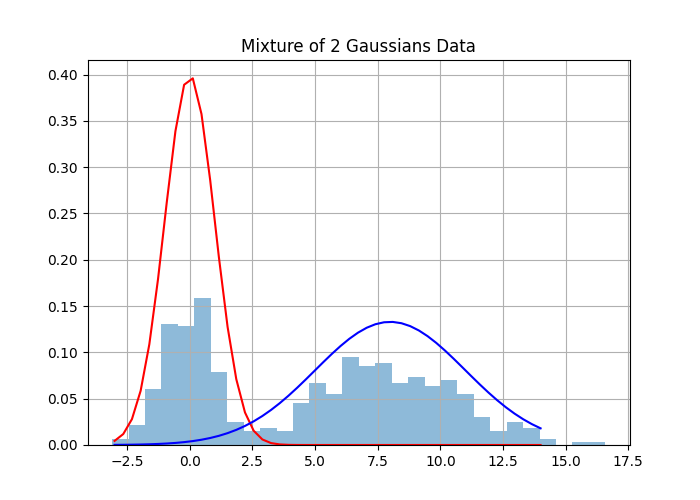
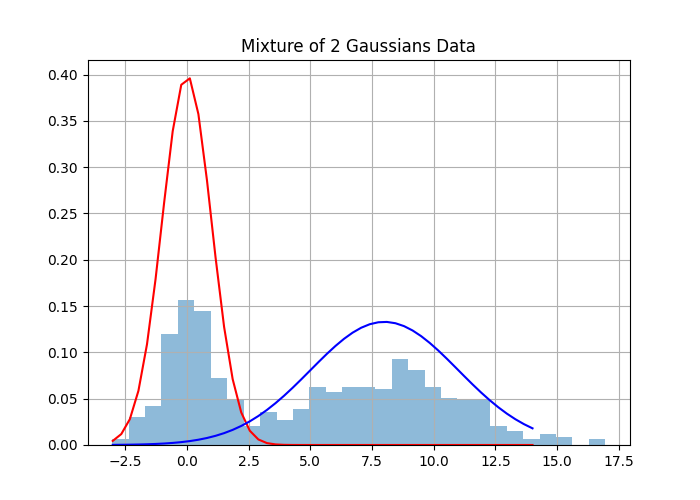
test

diff --git a/docs/post/2021-04-04-gibbs-sampling-for-mixutre-of-normals/index.en.html b/docs/post/2021-04-04-gibbs-sampling-for-mixutre-of-normals/index.en.html
@@ -132,19 +132,18 @@ from <span class="math inline">\(\phi_{\theta_2}(x)\)</span> where <span class="
 <span id="cb1-28"><a href="#cb1-28" aria-hidden="true" tabindex="-1"></a></span>
 <span id="cb1-29"><a href="#cb1-29" aria-hidden="true" tabindex="-1"></a><span class="co"># Create Plot of Data </span></span>
 <span id="cb1-30"><a href="#cb1-30" aria-hidden="true" tabindex="-1"></a>plt.hist(y, <span class="dv">30</span>, density<span class="op">=</span><span class="va">True</span>, alpha<span class="op">=</span><span class="fl">0.5</span>)</span></code></pre></div>
-<pre><code>## (array([0.03085908, 0.05863225, 0.08331951, 0.1573813 , 0.16663902,
-##        0.1172645 , 0.04937453, 0.02160136, 0.00925772, 0.01234363,
-##        0.03703089, 0.08331951, 0.0771477 , 0.0401168 , 0.06788997,
-##        0.06480407, 0.04937453, 0.08949133, 0.06480407, 0.06480407,
-##        0.0401168 , 0.05554634, 0.03394499, 0.01542954, 0.03085908,
-##        0.00308591, 0.01234363, 0.00308591, 0.        , 0.00308591]), array([-2.58806699e+00, -1.93995950e+00, -1.29185201e+00, -6.43744519e-01,
-##         4.36297185e-03,  6.52470463e-01,  1.30057795e+00,  1.94868544e+00,
-##         2.59679294e+00,  3.24490043e+00,  3.89300792e+00,  4.54111541e+00,
-##         5.18922290e+00,  5.83733039e+00,  6.48543788e+00,  7.13354537e+00,
-##         7.78165286e+00,  8.42976035e+00,  9.07786784e+00,  9.72597534e+00,
-##         1.03740828e+01,  1.10221903e+01,  1.16702978e+01,  1.23184053e+01,
-##         1.29665128e+01,  1.36146203e+01,  1.42627278e+01,  1.49108353e+01,
-##         1.55589428e+01,  1.62070502e+01,  1.68551577e+01]), &lt;BarContainer object of 30 artists&gt;)</code></pre>
+<pre><code>## (array([0.00612969, 0.01532421, 0.03677811, 0.09194528, 0.15937182,
+##        0.17163119, 0.09501012, 0.04903748, 0.02451874, 0.02758358,
+##        0.03064843, 0.03677811, 0.03064843, 0.06129685, 0.04903748,
+##        0.07049138, 0.07968591, 0.09194528, 0.0858156 , 0.04597264,
+##        0.07355622, 0.05823201, 0.04903748, 0.0429078 , 0.00919453,
+##        0.0214539 , 0.00612969, 0.00612969, 0.        , 0.00612969]), array([-3.32204907, -2.66948703, -2.01692499, -1.36436295, -0.71180091,
+##        -0.05923887,  0.59332317,  1.24588521,  1.89844725,  2.5510093 ,
+##         3.20357134,  3.85613338,  4.50869542,  5.16125746,  5.8138195 ,
+##         6.46638154,  7.11894358,  7.77150562,  8.42406766,  9.07662971,
+##         9.72919175, 10.38175379, 11.03431583, 11.68687787, 12.33943991,
+##        12.99200195, 13.64456399, 14.29712603, 14.94968807, 15.60225012,
+##        16.25481216]), &lt;BarContainer object of 30 artists&gt;)</code></pre>
 <div class="sourceCode" id="cb3"><pre class="sourceCode python"><code class="sourceCode python"><span id="cb3-1"><a href="#cb3-1" aria-hidden="true" tabindex="-1"></a>plt.plot(x, norm(mu[<span class="dv">0</span>], sigmas[<span class="dv">0</span>]).pdf(x), color<span class="op">=</span><span class="st">&quot;red&quot;</span>)</span>
 <span id="cb3-2"><a href="#cb3-2" aria-hidden="true" tabindex="-1"></a>plt.plot(x, norm(mu[<span class="dv">1</span>], sigmas[<span class="dv">1</span>]).pdf(x), color<span class="op">=</span><span class="st">&quot;blue&quot;</span>)</span>
 <span id="cb3-3"><a href="#cb3-3" aria-hidden="true" tabindex="-1"></a>plt.title(<span class="st">&quot;Mixture of 2 Gaussians Data&quot;</span>)</span>
@@ -320,19 +319,18 @@ p(z|\theta,x) &amp; = \frac{p(\theta,x,z)}{p(\theta,x)} \\
 <span id="cb8-32"><a href="#cb8-32" aria-hidden="true" tabindex="-1"></a>pi <span class="op">=</span> np.<span class="bu">round</span>(np.mean(trace[:,<span class="dv">4</span>]),<span class="dv">2</span>)</span>
 <span id="cb8-33"><a href="#cb8-33" aria-hidden="true" tabindex="-1"></a></span>
 <span id="cb8-34"><a href="#cb8-34" aria-hidden="true" tabindex="-1"></a>plt.hist(y, <span class="dv">30</span>, density<span class="op">=</span><span class="va">True</span>, alpha<span class="op">=</span><span class="fl">0.5</span>)</span></code></pre></div>
-<pre><code>## (array([0.03085908, 0.05863225, 0.08331951, 0.1573813 , 0.16663902,
-##        0.1172645 , 0.04937453, 0.02160136, 0.00925772, 0.01234363,
-##        0.03703089, 0.08331951, 0.0771477 , 0.0401168 , 0.06788997,
-##        0.06480407, 0.04937453, 0.08949133, 0.06480407, 0.06480407,
-##        0.0401168 , 0.05554634, 0.03394499, 0.01542954, 0.03085908,
-##        0.00308591, 0.01234363, 0.00308591, 0.        , 0.00308591]), array([-2.58806699e+00, -1.93995950e+00, -1.29185201e+00, -6.43744519e-01,
-##         4.36297185e-03,  6.52470463e-01,  1.30057795e+00,  1.94868544e+00,
-##         2.59679294e+00,  3.24490043e+00,  3.89300792e+00,  4.54111541e+00,
-##         5.18922290e+00,  5.83733039e+00,  6.48543788e+00,  7.13354537e+00,
-##         7.78165286e+00,  8.42976035e+00,  9.07786784e+00,  9.72597534e+00,
-##         1.03740828e+01,  1.10221903e+01,  1.16702978e+01,  1.23184053e+01,
-##         1.29665128e+01,  1.36146203e+01,  1.42627278e+01,  1.49108353e+01,
-##         1.55589428e+01,  1.62070502e+01,  1.68551577e+01]), &lt;BarContainer object of 30 artists&gt;)</code></pre>
+<pre><code>## (array([0.00612969, 0.01532421, 0.03677811, 0.09194528, 0.15937182,
+##        0.17163119, 0.09501012, 0.04903748, 0.02451874, 0.02758358,
+##        0.03064843, 0.03677811, 0.03064843, 0.06129685, 0.04903748,
+##        0.07049138, 0.07968591, 0.09194528, 0.0858156 , 0.04597264,
+##        0.07355622, 0.05823201, 0.04903748, 0.0429078 , 0.00919453,
+##        0.0214539 , 0.00612969, 0.00612969, 0.        , 0.00612969]), array([-3.32204907, -2.66948703, -2.01692499, -1.36436295, -0.71180091,
+##        -0.05923887,  0.59332317,  1.24588521,  1.89844725,  2.5510093 ,
+##         3.20357134,  3.85613338,  4.50869542,  5.16125746,  5.8138195 ,
+##         6.46638154,  7.11894358,  7.77150562,  8.42406766,  9.07662971,
+##         9.72919175, 10.38175379, 11.03431583, 11.68687787, 12.33943991,
+##        12.99200195, 13.64456399, 14.29712603, 14.94968807, 15.60225012,
+##        16.25481216]), &lt;BarContainer object of 30 artists&gt;)</code></pre>
 <div class="sourceCode" id="cb10"><pre class="sourceCode python"><code class="sourceCode python"><span id="cb10-1"><a href="#cb10-1" aria-hidden="true" tabindex="-1"></a>plt.plot(x, norm(mu[<span class="dv">0</span>], sigmas[<span class="dv">0</span>]).pdf(x), color<span class="op">=</span><span class="st">&quot;red&quot;</span>, label<span class="op">=</span><span class="st">&quot;Actual&quot;</span>)</span>
 <span id="cb10-2"><a href="#cb10-2" aria-hidden="true" tabindex="-1"></a>plt.plot(x, norm(mu[<span class="dv">1</span>], sigmas[<span class="dv">1</span>]).pdf(x), color<span class="op">=</span><span class="st">&quot;red&quot;</span>)</span>
 <span id="cb10-3"><a href="#cb10-3" aria-hidden="true" tabindex="-1"></a>plt.plot(x, norm(mu1, sigma1).pdf(x), color<span class="op">=</span><span class="st">&quot;blue&quot;</span>, label<span class="op">=</span><span class="st">&quot;Fitted&quot;</span>)</span>

diff --git a/content/post/2021-04-04-gibbs-sampling-for-mixutre-of-normals/index.en.html b/content/post/2021-04-04-gibbs-sampling-for-mixutre-of-normals/index.en.html
@@ -148,18 +148,18 @@ from <span class="math inline">\(\phi_{\theta_2}(x)\)</span> where <span class="
 <span id="cb1-28"><a href="#cb1-28" aria-hidden="true" tabindex="-1"></a></span>
 <span id="cb1-29"><a href="#cb1-29" aria-hidden="true" tabindex="-1"></a><span class="co"># Create Plot of Data </span></span>
 <span id="cb1-30"><a href="#cb1-30" aria-hidden="true" tabindex="-1"></a>plt.hist(y, <span class="dv">30</span>, density<span class="op">=</span><span class="va">True</span>, alpha<span class="op">=</span><span class="fl">0.5</span>)</span></code></pre></div>
-<pre><code>## (array([0.00609786, 0.02134252, 0.06097863, 0.13110405, 0.12805511,
-##        0.15854443, 0.07927221, 0.02439145, 0.01524466, 0.01829359,
-##        0.01524466, 0.04573397, 0.06707649, 0.05488076, 0.09451687,
-##        0.08537008, 0.08841901, 0.06707649, 0.07317435, 0.06402756,
-##        0.07012542, 0.05488076, 0.03048931, 0.01524466, 0.02439145,
-##        0.01829359, 0.00609786, 0.        , 0.00304893, 0.00304893]), array([-3.09556886, -2.43960131, -1.78363375, -1.1276662 , -0.47169864,
-##         0.18426891,  0.84023646,  1.49620402,  2.15217157,  2.80813913,
-##         3.46410668,  4.12007424,  4.77604179,  5.43200935,  6.0879769 ,
-##         6.74394445,  7.39991201,  8.05587956,  8.71184712,  9.36781467,
-##        10.02378223, 10.67974978, 11.33571734, 11.99168489, 12.64765244,
-##        13.30362   , 13.95958755, 14.61555511, 15.27152266, 15.92749022,
-##        16.58345777]), &lt;BarContainer object of 30 artists&gt;)</code></pre>
+<pre><code>## (array([0.00600837, 0.03004184, 0.04205858, 0.12016738, 0.15621759,
+##        0.14420085, 0.07210043, 0.04806695, 0.02102929, 0.03605021,
+##        0.02703766, 0.0390544 , 0.06308787, 0.0570795 , 0.06308787,
+##        0.06308787, 0.06008369, 0.09312972, 0.08111298, 0.06308787,
+##        0.05107113, 0.04806695, 0.04806695, 0.02102929, 0.01502092,
+##        0.00600837, 0.01201674, 0.00901255, 0.        , 0.00600837]), array([-3.02297143, -2.35723333, -1.69149523, -1.02575713, -0.36001904,
+##         0.30571906,  0.97145716,  1.63719526,  2.30293336,  2.96867146,
+##         3.63440955,  4.30014765,  4.96588575,  5.63162385,  6.29736195,
+##         6.96310004,  7.62883814,  8.29457624,  8.96031434,  9.62605244,
+##        10.29179053, 10.95752863, 11.62326673, 12.28900483, 12.95474293,
+##        13.62048102, 14.28621912, 14.95195722, 15.61769532, 16.28343342,
+##        16.94917151]), &lt;BarContainer object of 30 artists&gt;)</code></pre>
 <div class="sourceCode" id="cb3"><pre class="sourceCode python"><code class="sourceCode python"><span id="cb3-1"><a href="#cb3-1" aria-hidden="true" tabindex="-1"></a>plt.plot(x, norm(mu[<span class="dv">0</span>], sigmas[<span class="dv">0</span>]).pdf(x), color<span class="op">=</span><span class="st">&quot;red&quot;</span>)</span>
 <span id="cb3-2"><a href="#cb3-2" aria-hidden="true" tabindex="-1"></a>plt.plot(x, norm(mu[<span class="dv">1</span>], sigmas[<span class="dv">1</span>]).pdf(x), color<span class="op">=</span><span class="st">&quot;blue&quot;</span>)</span>
 <span id="cb3-3"><a href="#cb3-3" aria-hidden="true" tabindex="-1"></a>plt.title(<span class="st">&quot;Mixture of 2 Gaussians Data&quot;</span>)</span>
@@ -335,18 +335,18 @@ p(z|\theta,x) &amp; = \frac{p(\theta,x,z)}{p(\theta,x)} \\
 <span id="cb8-32"><a href="#cb8-32" aria-hidden="true" tabindex="-1"></a>pi <span class="op">=</span> np.<span class="bu">round</span>(np.mean(trace[:,<span class="dv">4</span>]),<span class="dv">2</span>)</span>
 <span id="cb8-33"><a href="#cb8-33" aria-hidden="true" tabindex="-1"></a></span>
 <span id="cb8-34"><a href="#cb8-34" aria-hidden="true" tabindex="-1"></a>plt.hist(y, <span class="dv">30</span>, density<span class="op">=</span><span class="va">True</span>, alpha<span class="op">=</span><span class="fl">0.5</span>)</span></code></pre></div>
-<pre><code>## (array([0.00609786, 0.02134252, 0.06097863, 0.13110405, 0.12805511,
-##        0.15854443, 0.07927221, 0.02439145, 0.01524466, 0.01829359,
-##        0.01524466, 0.04573397, 0.06707649, 0.05488076, 0.09451687,
-##        0.08537008, 0.08841901, 0.06707649, 0.07317435, 0.06402756,
-##        0.07012542, 0.05488076, 0.03048931, 0.01524466, 0.02439145,
-##        0.01829359, 0.00609786, 0.        , 0.00304893, 0.00304893]), array([-3.09556886, -2.43960131, -1.78363375, -1.1276662 , -0.47169864,
-##         0.18426891,  0.84023646,  1.49620402,  2.15217157,  2.80813913,
-##         3.46410668,  4.12007424,  4.77604179,  5.43200935,  6.0879769 ,
-##         6.74394445,  7.39991201,  8.05587956,  8.71184712,  9.36781467,
-##        10.02378223, 10.67974978, 11.33571734, 11.99168489, 12.64765244,
-##        13.30362   , 13.95958755, 14.61555511, 15.27152266, 15.92749022,
-##        16.58345777]), &lt;BarContainer object of 30 artists&gt;)</code></pre>
+<pre><code>## (array([0.00600837, 0.03004184, 0.04205858, 0.12016738, 0.15621759,
+##        0.14420085, 0.07210043, 0.04806695, 0.02102929, 0.03605021,
+##        0.02703766, 0.0390544 , 0.06308787, 0.0570795 , 0.06308787,
+##        0.06308787, 0.06008369, 0.09312972, 0.08111298, 0.06308787,
+##        0.05107113, 0.04806695, 0.04806695, 0.02102929, 0.01502092,
+##        0.00600837, 0.01201674, 0.00901255, 0.        , 0.00600837]), array([-3.02297143, -2.35723333, -1.69149523, -1.02575713, -0.36001904,
+##         0.30571906,  0.97145716,  1.63719526,  2.30293336,  2.96867146,
+##         3.63440955,  4.30014765,  4.96588575,  5.63162385,  6.29736195,
+##         6.96310004,  7.62883814,  8.29457624,  8.96031434,  9.62605244,
+##        10.29179053, 10.95752863, 11.62326673, 12.28900483, 12.95474293,
+##        13.62048102, 14.28621912, 14.95195722, 15.61769532, 16.28343342,
+##        16.94917151]), &lt;BarContainer object of 30 artists&gt;)</code></pre>
 <div class="sourceCode" id="cb10"><pre class="sourceCode python"><code class="sourceCode python"><span id="cb10-1"><a href="#cb10-1" aria-hidden="true" tabindex="-1"></a>plt.plot(x, norm(mu[<span class="dv">0</span>], sigmas[<span class="dv">0</span>]).pdf(x), color<span class="op">=</span><span class="st">&quot;red&quot;</span>, label<span class="op">=</span><span class="st">&quot;Actual&quot;</span>)</span>
 <span id="cb10-2"><a href="#cb10-2" aria-hidden="true" tabindex="-1"></a>plt.plot(x, norm(mu[<span class="dv">1</span>], sigmas[<span class="dv">1</span>]).pdf(x), color<span class="op">=</span><span class="st">&quot;red&quot;</span>)</span>
 <span id="cb10-3"><a href="#cb10-3" aria-hidden="true" tabindex="-1"></a>plt.plot(x, norm(mu1, sigma1).pdf(x), color<span class="op">=</span><span class="st">&quot;blue&quot;</span>, label<span class="op">=</span><span class="st">&quot;Fitted&quot;</span>)</span>

diff --git a/docs/post/2021-04-04-gibbs-sampling-for-mixutre-of-normals/index.html b/docs/post/2021-04-04-gibbs-sampling-for-mixutre-of-normals/index.html
@@ -291,18 +291,18 @@ from <span class="math inline">\(\phi_{\theta_2}(x)\)</span> where <span class="
 <span id="cb1-28"><a href="#cb1-28" aria-hidden="true" tabindex="-1"></a></span>
 <span id="cb1-29"><a href="#cb1-29" aria-hidden="true" tabindex="-1"></a><span class="co"># Create Plot of Data </span></span>
 <span id="cb1-30"><a href="#cb1-30" aria-hidden="true" tabindex="-1"></a>plt.hist(y, <span class="dv">30</span>, density<span class="op">=</span><span class="va">True</span>, alpha<span class="op">=</span><span class="fl">0.5</span>)</span></code></pre></div>
-<pre><code>## (array([0.00609786, 0.02134252, 0.06097863, 0.13110405, 0.12805511,
-##        0.15854443, 0.07927221, 0.02439145, 0.01524466, 0.01829359,
-##        0.01524466, 0.04573397, 0.06707649, 0.05488076, 0.09451687,
-##        0.08537008, 0.08841901, 0.06707649, 0.07317435, 0.06402756,
-##        0.07012542, 0.05488076, 0.03048931, 0.01524466, 0.02439145,
-##        0.01829359, 0.00609786, 0.        , 0.00304893, 0.00304893]), array([-3.09556886, -2.43960131, -1.78363375, -1.1276662 , -0.47169864,
-##         0.18426891,  0.84023646,  1.49620402,  2.15217157,  2.80813913,
-##         3.46410668,  4.12007424,  4.77604179,  5.43200935,  6.0879769 ,
-##         6.74394445,  7.39991201,  8.05587956,  8.71184712,  9.36781467,
-##        10.02378223, 10.67974978, 11.33571734, 11.99168489, 12.64765244,
-##        13.30362   , 13.95958755, 14.61555511, 15.27152266, 15.92749022,
-##        16.58345777]), &lt;BarContainer object of 30 artists&gt;)</code></pre>
+<pre><code>## (array([0.00600837, 0.03004184, 0.04205858, 0.12016738, 0.15621759,
+##        0.14420085, 0.07210043, 0.04806695, 0.02102929, 0.03605021,
+##        0.02703766, 0.0390544 , 0.06308787, 0.0570795 , 0.06308787,
+##        0.06308787, 0.06008369, 0.09312972, 0.08111298, 0.06308787,
+##        0.05107113, 0.04806695, 0.04806695, 0.02102929, 0.01502092,
+##        0.00600837, 0.01201674, 0.00901255, 0.        , 0.00600837]), array([-3.02297143, -2.35723333, -1.69149523, -1.02575713, -0.36001904,
+##         0.30571906,  0.97145716,  1.63719526,  2.30293336,  2.96867146,
+##         3.63440955,  4.30014765,  4.96588575,  5.63162385,  6.29736195,
+##         6.96310004,  7.62883814,  8.29457624,  8.96031434,  9.62605244,
+##        10.29179053, 10.95752863, 11.62326673, 12.28900483, 12.95474293,
+##        13.62048102, 14.28621912, 14.95195722, 15.61769532, 16.28343342,
+##        16.94917151]), &lt;BarContainer object of 30 artists&gt;)</code></pre>
 <div class="sourceCode" id="cb3"><pre class="sourceCode python"><code class="sourceCode python"><span id="cb3-1"><a href="#cb3-1" aria-hidden="true" tabindex="-1"></a>plt.plot(x, norm(mu[<span class="dv">0</span>], sigmas[<span class="dv">0</span>]).pdf(x), color<span class="op">=</span><span class="st">&quot;red&quot;</span>)</span>
 <span id="cb3-2"><a href="#cb3-2" aria-hidden="true" tabindex="-1"></a>plt.plot(x, norm(mu[<span class="dv">1</span>], sigmas[<span class="dv">1</span>]).pdf(x), color<span class="op">=</span><span class="st">&quot;blue&quot;</span>)</span>
 <span id="cb3-3"><a href="#cb3-3" aria-hidden="true" tabindex="-1"></a>plt.title(<span class="st">&quot;Mixture of 2 Gaussians Data&quot;</span>)</span>
@@ -478,18 +478,18 @@ p(z|\theta,x) &amp; = \frac{p(\theta,x,z)}{p(\theta,x)} \\
 <span id="cb8-32"><a href="#cb8-32" aria-hidden="true" tabindex="-1"></a>pi <span class="op">=</span> np.<span class="bu">round</span>(np.mean(trace[:,<span class="dv">4</span>]),<span class="dv">2</span>)</span>
 <span id="cb8-33"><a href="#cb8-33" aria-hidden="true" tabindex="-1"></a></span>
 <span id="cb8-34"><a href="#cb8-34" aria-hidden="true" tabindex="-1"></a>plt.hist(y, <span class="dv">30</span>, density<span class="op">=</span><span class="va">True</span>, alpha<span class="op">=</span><span class="fl">0.5</span>)</span></code></pre></div>
-<pre><code>## (array([0.00609786, 0.02134252, 0.06097863, 0.13110405, 0.12805511,
-##        0.15854443, 0.07927221, 0.02439145, 0.01524466, 0.01829359,
-##        0.01524466, 0.04573397, 0.06707649, 0.05488076, 0.09451687,
-##        0.08537008, 0.08841901, 0.06707649, 0.07317435, 0.06402756,
-##        0.07012542, 0.05488076, 0.03048931, 0.01524466, 0.02439145,
-##        0.01829359, 0.00609786, 0.        , 0.00304893, 0.00304893]), array([-3.09556886, -2.43960131, -1.78363375, -1.1276662 , -0.47169864,
-##         0.18426891,  0.84023646,  1.49620402,  2.15217157,  2.80813913,
-##         3.46410668,  4.12007424,  4.77604179,  5.43200935,  6.0879769 ,
-##         6.74394445,  7.39991201,  8.05587956,  8.71184712,  9.36781467,
-##        10.02378223, 10.67974978, 11.33571734, 11.99168489, 12.64765244,
-##        13.30362   , 13.95958755, 14.61555511, 15.27152266, 15.92749022,
-##        16.58345777]), &lt;BarContainer object of 30 artists&gt;)</code></pre>
+<pre><code>## (array([0.00600837, 0.03004184, 0.04205858, 0.12016738, 0.15621759,
+##        0.14420085, 0.07210043, 0.04806695, 0.02102929, 0.03605021,
+##        0.02703766, 0.0390544 , 0.06308787, 0.0570795 , 0.06308787,
+##        0.06308787, 0.06008369, 0.09312972, 0.08111298, 0.06308787,
+##        0.05107113, 0.04806695, 0.04806695, 0.02102929, 0.01502092,
+##        0.00600837, 0.01201674, 0.00901255, 0.        , 0.00600837]), array([-3.02297143, -2.35723333, -1.69149523, -1.02575713, -0.36001904,
+##         0.30571906,  0.97145716,  1.63719526,  2.30293336,  2.96867146,
+##         3.63440955,  4.30014765,  4.96588575,  5.63162385,  6.29736195,
+##         6.96310004,  7.62883814,  8.29457624,  8.96031434,  9.62605244,
+##        10.29179053, 10.95752863, 11.62326673, 12.28900483, 12.95474293,
+##        13.62048102, 14.28621912, 14.95195722, 15.61769532, 16.28343342,
+##        16.94917151]), &lt;BarContainer object of 30 artists&gt;)</code></pre>
 <div class="sourceCode" id="cb10"><pre class="sourceCode python"><code class="sourceCode python"><span id="cb10-1"><a href="#cb10-1" aria-hidden="true" tabindex="-1"></a>plt.plot(x, norm(mu[<span class="dv">0</span>], sigmas[<span class="dv">0</span>]).pdf(x), color<span class="op">=</span><span class="st">&quot;red&quot;</span>, label<span class="op">=</span><span class="st">&quot;Actual&quot;</span>)</span>
 <span id="cb10-2"><a href="#cb10-2" aria-hidden="true" tabindex="-1"></a>plt.plot(x, norm(mu[<span class="dv">1</span>], sigmas[<span class="dv">1</span>]).pdf(x), color<span class="op">=</span><span class="st">&quot;red&quot;</span>)</span>
 <span id="cb10-3"><a href="#cb10-3" aria-hidden="true" tabindex="-1"></a>plt.plot(x, norm(mu1, sigma1).pdf(x), color<span class="op">=</span><span class="st">&quot;blue&quot;</span>, label<span class="op">=</span><span class="st">&quot;Fitted&quot;</span>)</span>
